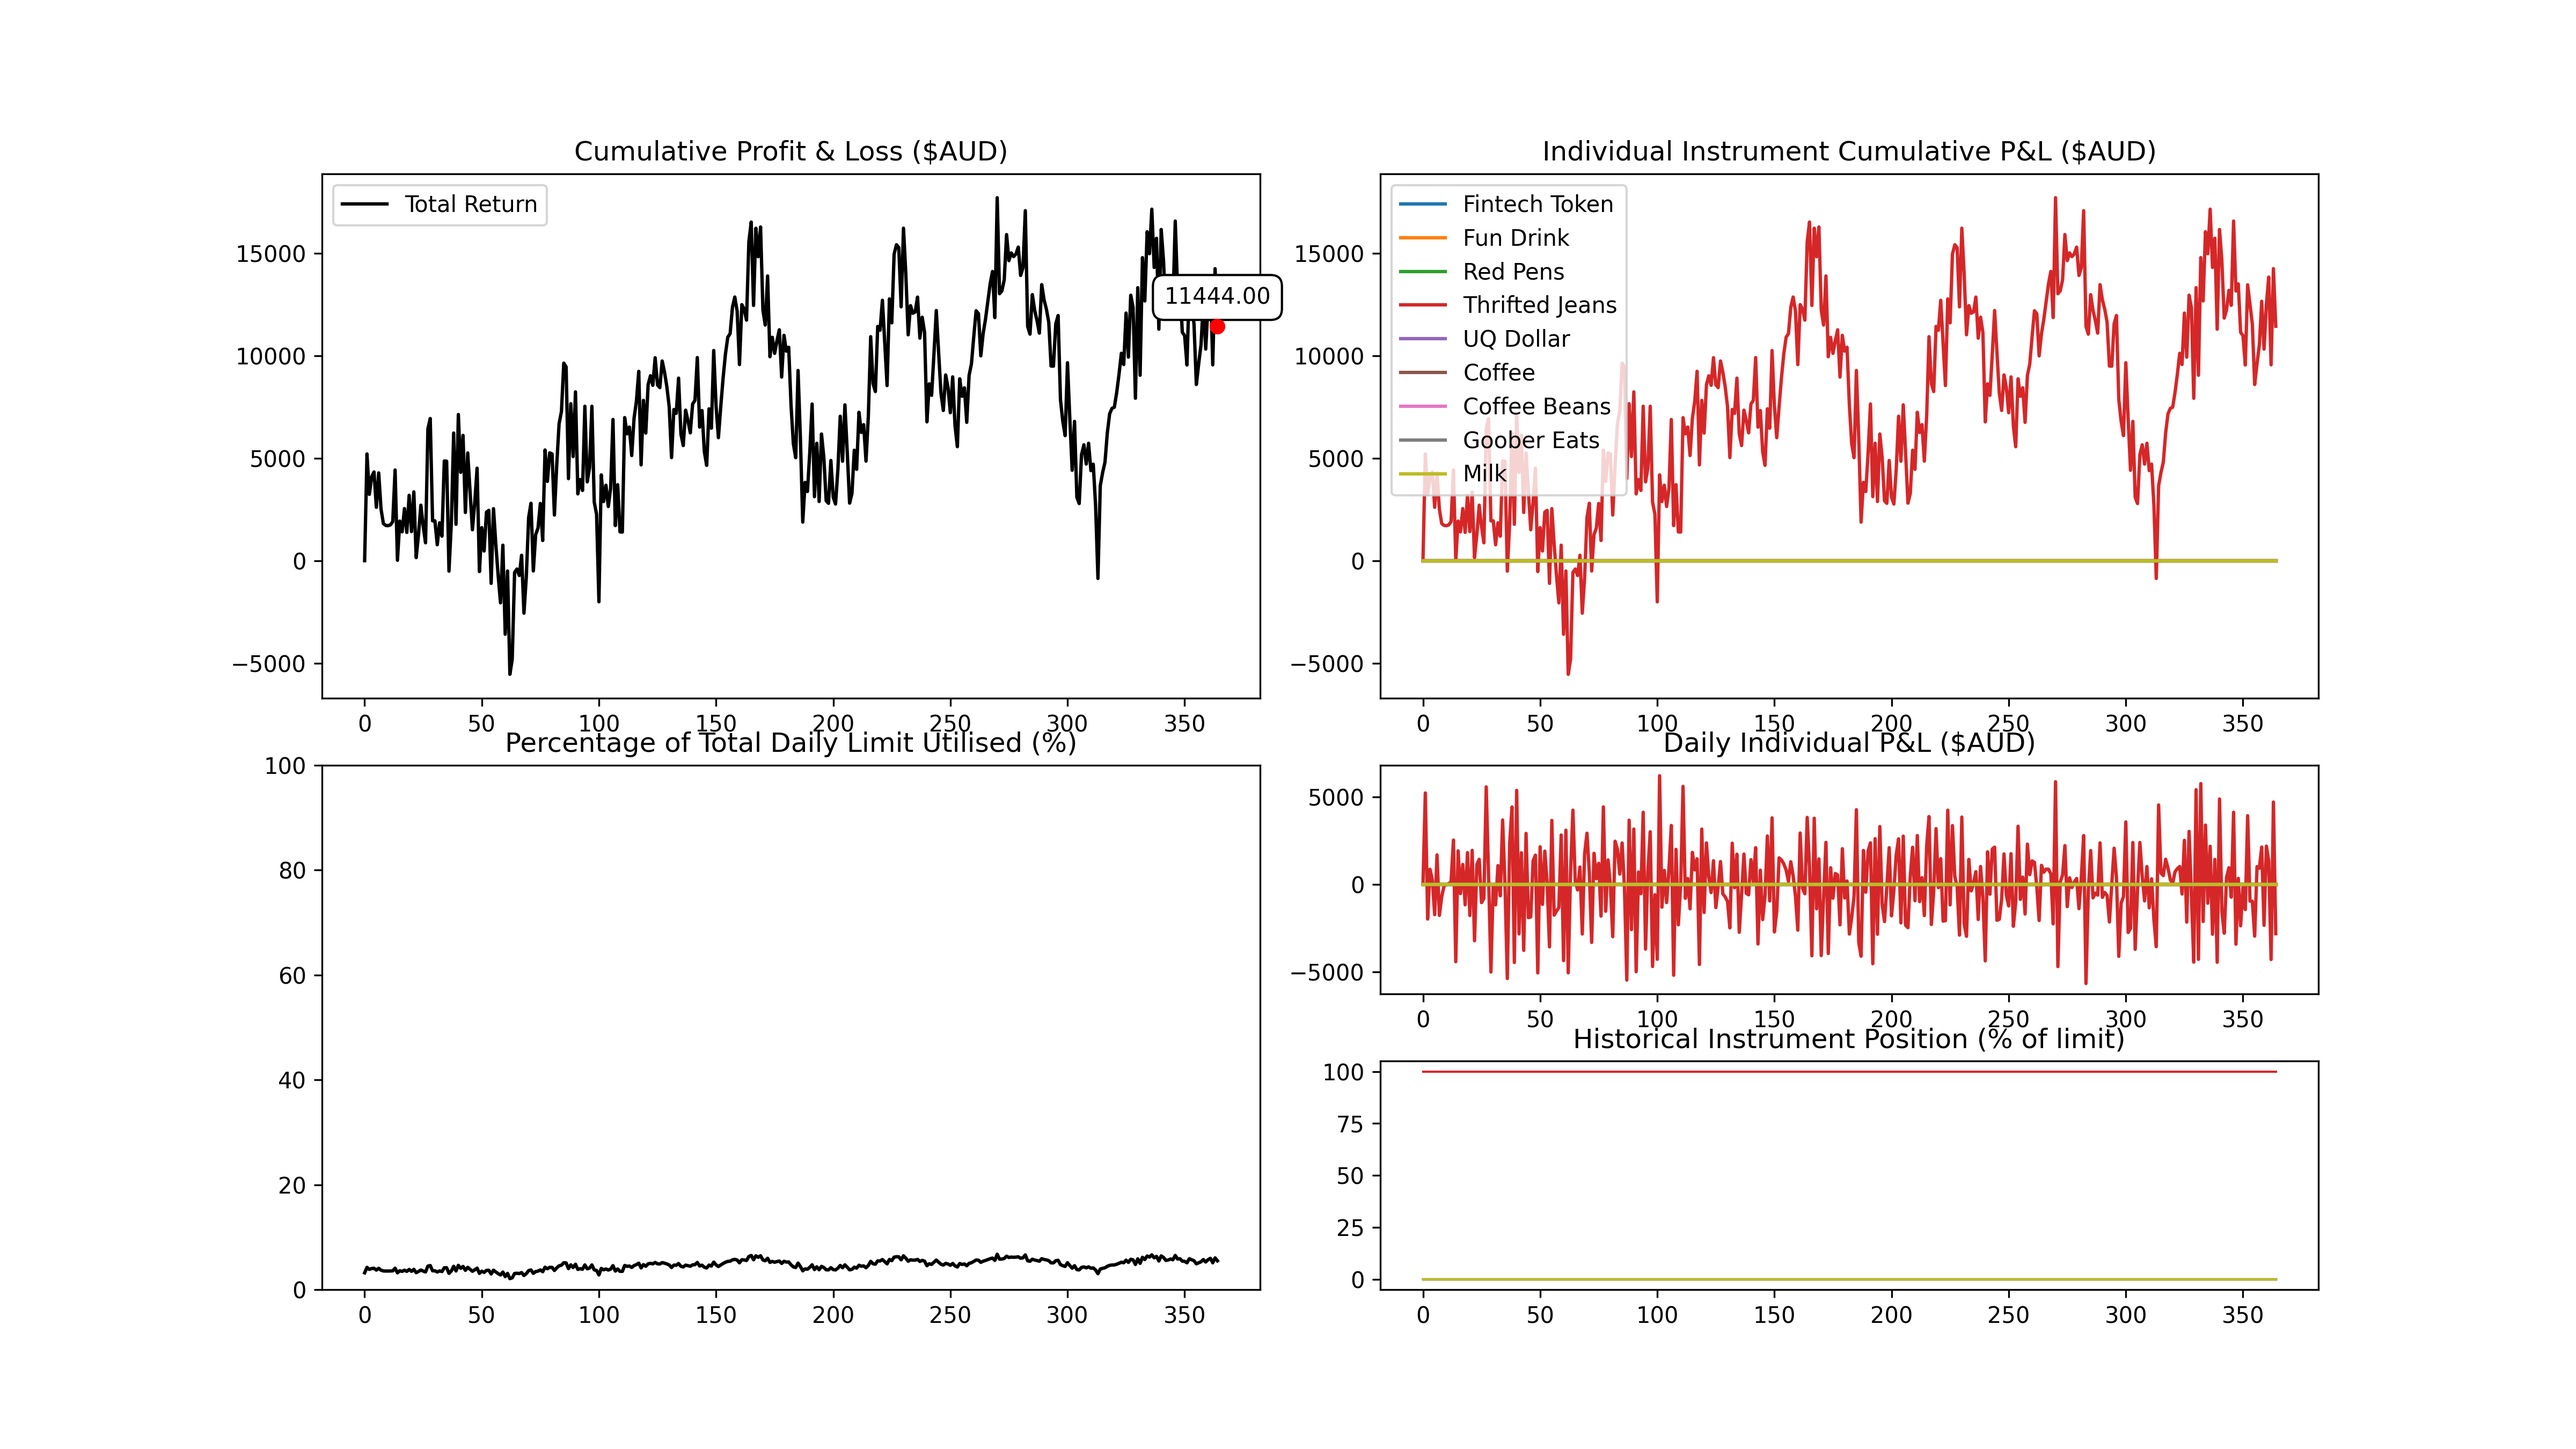
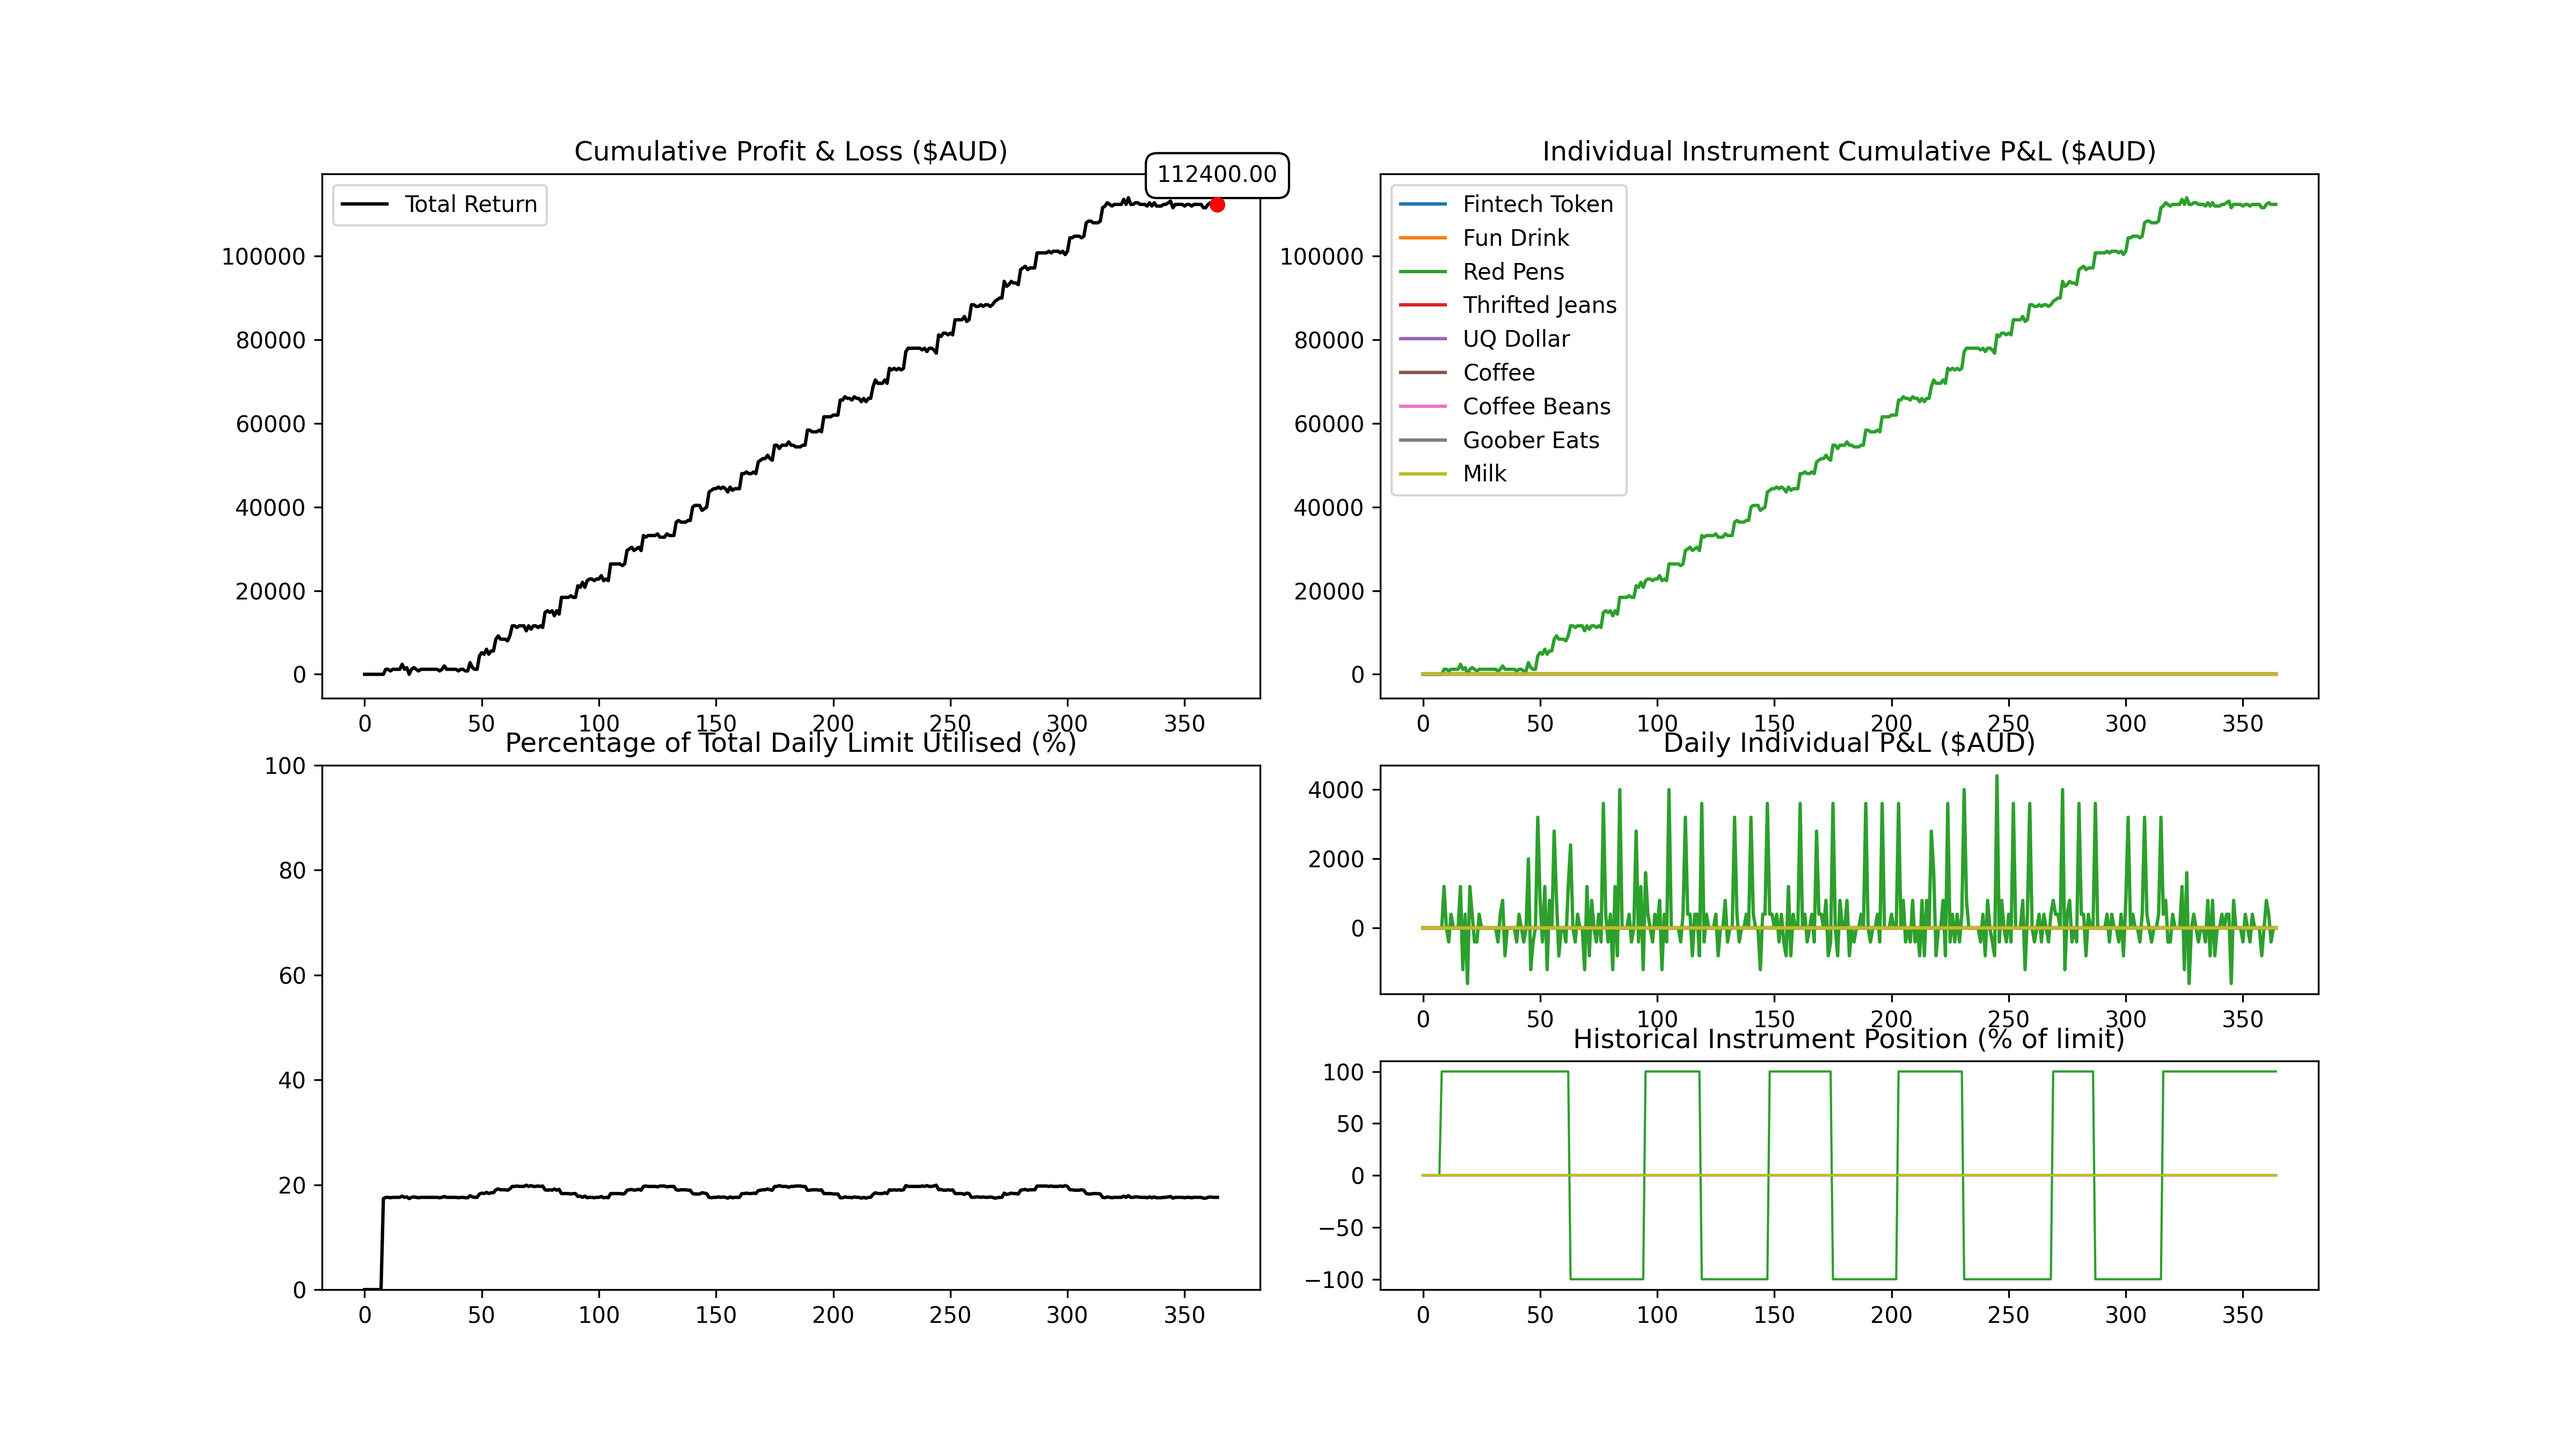
Basic red pen implementation

diff --git a/algorithm.py b/algorithm.py
@@ -1,4 +1,5 @@
 import numpy as np
+import pandas as pd
 
 # Custom trading Algorithm
 class Algorithm():
@@ -17,6 +18,7 @@ class Algorithm():
         self.day = 0
         # Initialise the current positions
         self.positions = positions
+
     # Helper function to fetch the current price of an instrument
     def get_current_price(self, instrument):
         # return most recent price
@@ -40,8 +42,43 @@ class Algorithm():
         # IMPLEMENT CODE HERE TO DECIDE WHAT POSITIONS YOU WANT 
         #######################################################################
         # Buy thrifted jeans maximum amount
-        desiredPositions["Thrifted Jeans"] = positionLimits["Thrifted Jeans"]
+
+        desiredPositions["Red Pens"] = self.get_red_pens_position(currentPositions["Red Pens"], positionLimits["Red Pens"])
 
         #######################################################################
         # Return the desired positions
         return desiredPositions
+    
+    def get_red_pens_position(self, currentPosition, limit):
+
+        # avg = self.penData.rolling(window=10, min_periods=1, on="Price").mean().at[self.day, "Price"]
+        # price = self.penData.at[self.day, "Price"]
+        avg = sum(self.data["Red Pens"][-10:]) / 10
+        price = self.get_current_price("Red Pens")
+
+        # Easy cases, these are great deals
+        # if price < 2.19:
+        #     desiredPosition = limit
+        # elif price > 2.46:
+        #     desiredPosition = -1 * limit
+        # # Going up the slopes, if we for some reason haven't bought
+        # elif avg > 2.23 and price > 2.24 and currentPosition < limit:
+        #     desiredPosition = limit
+        # # Going down the slopes, if we for some reason haven't sold
+        # elif avg < 4.45 and price < 2.44 and currentPosition > -1 * limit:
+        #     desiredPosition = -1 * limit
+        # # If we're in the flat sections
+        # elif avg < 2.23 and price < 2.2 and currentPosition < 0.9 * limit:
+        #     desiredPosition = 0.95 * limit
+        # elif avg < 2.23 and price > 2.21 and currentPosition > 0.9 * limit:
+        #     desiredPosition = 0.85 * limit
+        if price < 2.2:
+            desiredPosition = limit
+        elif price > 2.45:
+            desiredPosition = -1 * limit
+        else:
+            desiredPosition = currentPosition
+
+        print(f"Old position: {currentPosition}, new position: {desiredPosition}")
+
+        return desiredPosition
